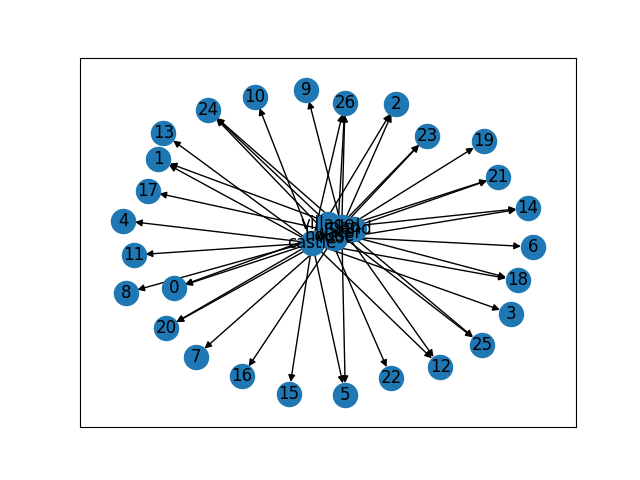
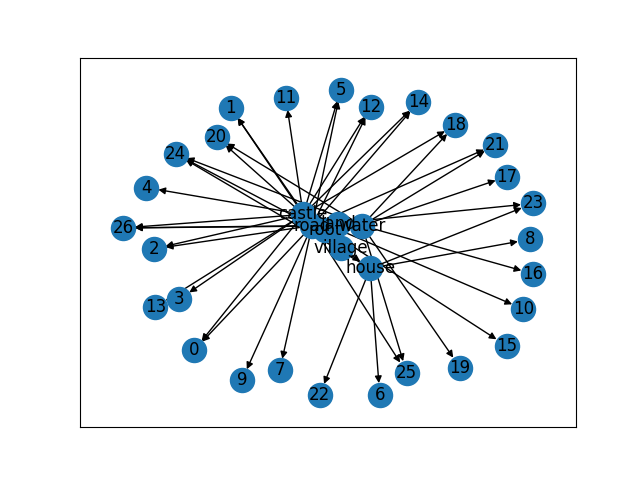
updated HSWFC
updated HSWFC

Changed region(s): [[0.1562, 0.1562, 0.875, 0.875]]

diff --git a/HSWFC.py b/HSWFC.py
@@ -9,10 +9,11 @@ plt.tight_layout()
 nx.draw_networkx(dag, arrows=True)
 plt.savefig("dag.png", format="PNG")
 plt.clf()
-terminalTiles = []
-metaTiles = []
+terminalTiles = ["0", "1", "2", "3", "4", "5", "6", "7", "8", "9", "10", "11", "12", "13", "14", "15", "16", "17", "18", "19", "20", "21", "22", "23", "24", "25", "26"]
+metaTiles = ["village", "castle", "land", "house", "road", "water"]
 
 while terminalTiles != []:
     currentTile = terminalTiles[0]
     for meta in metaTiles:
-        "this is not done yet"
+        if (meta, currentTile) in dag.edges:
+            print(f"{currentTile} is a child of {meta}")
